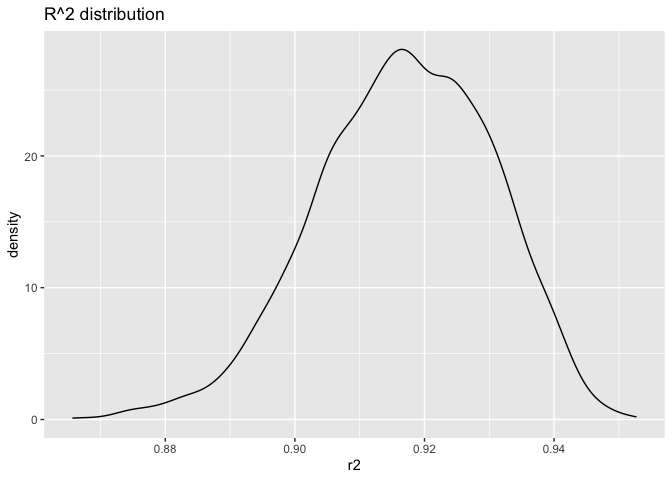
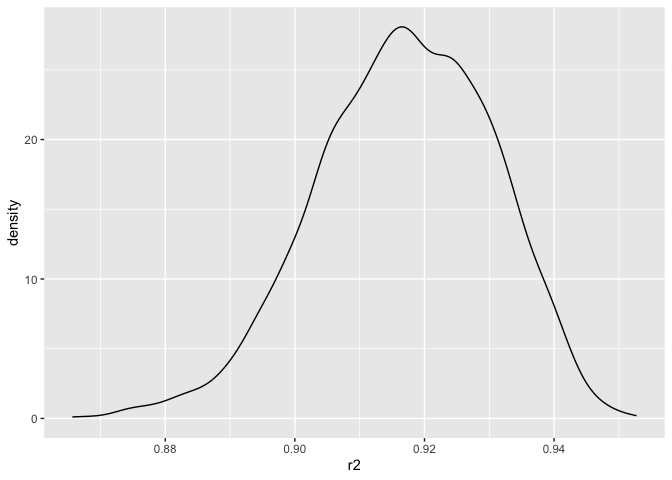
finishing touches

diff --git a/p8105_hw6_tem2171.md b/p8105_hw6_tem2171.md
@@ -96,8 +96,7 @@ bootstrap_results =
 ``` r
 bootstrap_results |> 
   ggplot(aes(x = r2)) + 
-  geom_density() +
-  labs(title = "R^2 distribution")
+  geom_density()
 ```
 
 ![](p8105_hw6_tem2171_files/figure-gfm/unnamed-chunk-6-1.png)<!-- -->
@@ -110,8 +109,7 @@ to low values. It is almost a normal distribution.
 ``` r
 bootstrap_results |> 
   ggplot(aes(x = log_b1_b2)) + 
-  geom_density() +
-  labs(title = "Log(B1 * B2) Distribution")
+  geom_density()
 ```
 
     ## Warning: Removed 3361 rows containing non-finite values (`stat_density()`).
